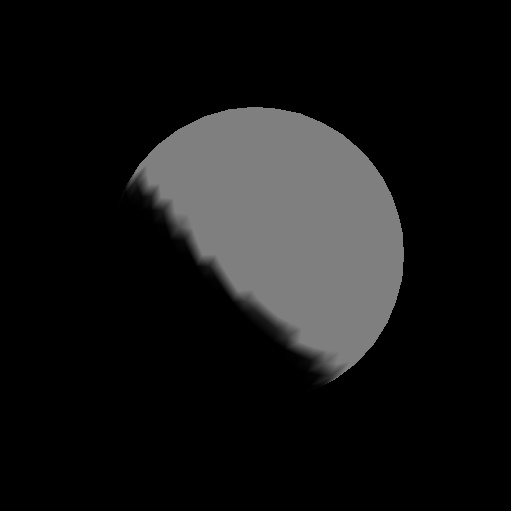
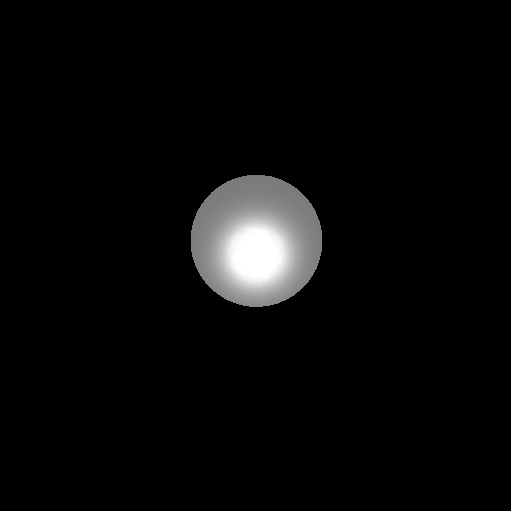
add still unfinished but little bit better lighting

Changed region(s): [[0.2348, 0.2055, 0.7926, 0.7632]]

diff --git a/RasteryzerTest/Biometrics/Rasterizer.cpp b/RasteryzerTest/Biometrics/Rasterizer.cpp
@@ -5,6 +5,11 @@ float3 InWindow(float4* ver)
 	return float3((ver->x + 1) * WIDTH * 0.5f, (ver->y + 1) * HEIGHT * 0.5f, ver->z); //+ 1) * DEPTH * 0.5f);
 }
 
+float3 InWindow(float3* ver)
+{
+	return float3((ver->x + 1) * WIDTH * 0.5f, (ver->y + 1) * HEIGHT * 0.5f, ver->z); //+ 1) * DEPTH * 0.5f);
+}
+
 void Rasterizer::rasterize()
 {
 	buffer.clearColor(0, 0, 0);
@@ -16,77 +21,56 @@ void Rasterizer::rasterize()
 		float3 ver3W = InWindow(&vertices.at(triangleIndexes.at(i)));
 		float3 ver2W = InWindow(&vertices.at(triangleIndexes.at(i + 1)));
 		float3 ver1W = InWindow(&vertices.at(triangleIndexes.at(i + 2)));
-		float3 v3 = float3(verticesMinus.at(triangleIndexes.at(i)).x, verticesMinus.at(triangleIndexes.at(i)).y, verticesMinus.at(triangleIndexes.at(i)).z);
-		float3 v2 = float3(verticesMinus.at(triangleIndexes.at(i + 1)).x, verticesMinus.at(triangleIndexes.at(i + 1)).y, verticesMinus.at(triangleIndexes.at(i + 1)).z);
-		float3 v1 = float3(verticesMinus.at(triangleIndexes.at(i + 2)).x, verticesMinus.at(triangleIndexes.at(i + 2)).y, verticesMinus.at(triangleIndexes.at(i + 2)).z);
-		//float3 v1 = -ver1W;
-		//float3 v2 = -ver2W;
-		//float3 v3 = -ver3W;
-		//float3 v1 = InWindow(&verticesMinus.at(triangleIndexes.at(i)));
-		//float3 v2 = InWindow(&verticesMinus.at(triangleIndexes.at(i + 1)));
-		//float3 v3 = InWindow(&verticesMinus.at(triangleIndexes.at(i + 2)));
-		//float3 v3 = -float3(vertices.at(triangleIndexes.at(i)).x, vertices.at(triangleIndexes.at(i)).y, vertices.at(triangleIndexes.at(i)).z);
-		//float3 v2 = -float3(vertices.at(triangleIndexes.at(i + 1)).x, vertices.at(triangleIndexes.at(i + 1)).y, vertices.at(triangleIndexes.at(i + 1)).z);
-		//float3 v1 = -float3(vertices.at(triangleIndexes.at(i + 2)).x, vertices.at(triangleIndexes.at(i + 2)).y, vertices.at(triangleIndexes.at(i + 2)).z);
+		float3 v3 = -float3(vertices.at(triangleIndexes.at(i)).x, vertices.at(triangleIndexes.at(i)).y, vertices.at(triangleIndexes.at(i)).z);
+		float3 v2 = -float3(vertices.at(triangleIndexes.at(i + 1)).x, vertices.at(triangleIndexes.at(i + 1)).y, vertices.at(triangleIndexes.at(i + 1)).z);
+		float3 v1 = -float3(vertices.at(triangleIndexes.at(i + 2)).x, vertices.at(triangleIndexes.at(i + 2)).y, vertices.at(triangleIndexes.at(i + 2)).z);
+		//float3 v3 = float3(verticesMinus.at(triangleIndexes.at(i)).x, verticesMinus.at(triangleIndexes.at(i)).y, verticesMinus.at(triangleIndexes.at(i)).z);
+		//float3 v2 = float3(verticesMinus.at(triangleIndexes.at(i + 1)).x, verticesMinus.at(triangleIndexes.at(i + 1)).y, verticesMinus.at(triangleIndexes.at(i + 1)).z);
+		//float3 v1 = float3(verticesMinus.at(triangleIndexes.at(i + 2)).x, verticesMinus.at(triangleIndexes.at(i + 2)).y, verticesMinus.at(triangleIndexes.at(i + 2)).z);
+		v3.normalize();
+		v2.normalize();
+		v1.normalize();
 		float3 n3 = float3(normals.at(triangleIndexes.at(i)).x, normals.at(triangleIndexes.at(i)).y, normals.at(triangleIndexes.at(i)).z);
 		float3 n2 = float3(normals.at(triangleIndexes.at(i + 1)).x, normals.at(triangleIndexes.at(i + 1)).y, normals.at(triangleIndexes.at(i + 1)).z);
 		float3 n1 = float3(normals.at(triangleIndexes.at(i + 2)).x, normals.at(triangleIndexes.at(i + 2)).y, normals.at(triangleIndexes.at(i + 2)).z);
-		//float3 n3 = InWindow(&normals.at(triangleIndexes.at(i)));
-		//float3 n2 = InWindow(&normals.at(triangleIndexes.at(i + 1)));
-		//float3 n1 = InWindow(&normals.at(triangleIndexes.at(i + 2)));
-
 		n3.normalize();
 		n2.normalize();
 		n1.normalize();
 
-		//float3 R1 = light.position.reflection(n1);
-		//float3 R2 = light.position.reflection(n2);
-		//float3 R3 = light.position.reflection(n3);
+		float3 posLight = float3(light->position.x, light->position.y, light->position.z);
+		posLight.normalize();
 
-		float3 posLight = float3(light->position.x,light->position.y,light->position.z);
-
-		float3 R1 = posLight.reflection(n1);
-		float3 R2 = posLight.reflection(n2);
-		float3 R3 = posLight.reflection(n3);
-		float diffuse1 = light->position.dot(n1);
-		float diffuse2 = light->position.dot(n2);
-		float diffuse3 = light->position.dot(n3);
-		//float tmp1 = R1.dot(v1);
-		//float tmp2 = R2.dot(v2);
-		//float tmp3 = R3.dot(v3);
-		float tmp1 = v1.dot(R1);
-		float tmp2 = v2.dot(R2);
-		float tmp3 = v3.dot(R3);
+		float3 R1 = n1.reflection(posLight);
+		float3 R2 = n2.reflection(posLight);
+		float3 R3 = n3.reflection(posLight);
+		//float3 R1 = posLight - (n1 * n1.dot(posLight) * 2.0f);
+		//float3 R2 = posLight - (n2 * n2.dot(posLight) * 2.0f);
+		//float3 R3 = posLight - (n3 * n3.dot(posLight) * 2.0f);
+		//float3 R1 = posLight.reflection(n1);
+		//float3 R2 = posLight.reflection(n2);
+		//float3 R3 = posLight.reflection(n3);
+		float diffuse1 = posLight.dot(n1);
+		float diffuse2 = posLight.dot(n2);
+		float diffuse3 = posLight.dot(n3);
+		float tmp1 = R1.dot(v1);
+		float tmp2 = R2.dot(v2);
+		float tmp3 = R3.dot(v3);
 		if (tmp1 < 0)
 			tmp1 = 0;
 		if (tmp2 < 0)
 			tmp2 = 0;
 		if (tmp3 < 0)
 			tmp3 = 0;
-		float specular1 = pow(tmp1, light->shininess);
-		float specular2 = pow(tmp2, light->shininess);
-		float specular3 = pow(tmp3, light->shininess);
-		//float specular1 = powf(light->shininess, tmp1);
-		//float specular2 = powf(light->shininess, tmp2);
-		//float specular3 = powf(light->shininess, tmp3);
-		//float3 col1 = float3(0.5f, 0.5f, 0.5f);
-		//float3 col2 = float3(0.5f, 0.5f, 0.5f);
-		//float3 col3 = float3(0.5f, 0.5f, 0.5f);
+		float specular1 = 0;
+		float specular2 = 0;
+		float specular3 = 0;
+
+		specular1 = pow(tmp1, light->shininess);
+		specular2 = pow(tmp2, light->shininess);
+		specular3 = pow(tmp3, light->shininess);
 		float3 col1; //= float3(0.5f, 0.0f, 0.0f);
 		float3 col2; //= float3(0.0f, 0.5f, 0.0f);
 		float3 col3; //= float3(0.0f, 0.0f, 0.5f);
-		//if (diffuse1 > 1)
-		//	diffuse1 = 1;
-		//if (diffuse2 > 1)
-		//	diffuse2 = 1;
-		//if (diffuse3 > 1)
-		//	diffuse3 = 1;
-		//if (diffuse1 < 0)
-		//	diffuse1 = 0;
-		//if (diffuse2 < 0)
-		//	diffuse2 = 0;
-		//if (diffuse3 < 0)
-		//	diffuse3 = 0;
 		if (specular1 > 1)
 			specular1 = 1;
 		if (specular2 > 1)
@@ -99,24 +83,25 @@ void Rasterizer::rasterize()
 			specular2 = 0;
 		if (specular3 < 0)
 			specular3 = 0;
-		//col1 = light.ambient + light.diffuse * diffuse1 + light.specular * specular1;
-		//col2 = light.ambient + light.diffuse * diffuse2 + light.specular * specular2;
-		//col3 = light.ambient + light.diffuse * diffuse3 + light.specular * specular3;
-		//col1 = light.diffuse * diffuse1 + light.specular * specular1;
-		//col2 = light.diffuse * diffuse2 + light.specular * specular2;
-		//col3 = light.diffuse * diffuse3 + light.specular * specular3;
-		//col1 = light.ambient + light.diffuse * diffuse1;
-		//col2 = light.ambient + light.diffuse * diffuse2;
-		//col3 = light.ambient + light.diffuse * diffuse3;
-		col1 = light->specular * specular1;
-		col2 = light->specular * specular2;
-		col3 = light->specular * specular3;
+		col1 = light->ambient + light->diffuse * diffuse1 + light->specular * specular1;
+		col2 = light->ambient + light->diffuse * diffuse2 + light->specular * specular2;
+		col3 = light->ambient + light->diffuse * diffuse3 + light->specular * specular3;
+		//col1 = light->diffuse * diffuse1 + light->specular * specular1;
+		//col2 = light->diffuse * diffuse2 + light->specular * specular2;
+		//col3 = light->diffuse * diffuse3 + light->specular * specular3;
+		//col1 = light->ambient + light->diffuse * diffuse1;
+		//col2 = light->ambient + light->diffuse * diffuse2;
+		//col3 = light->ambient + light->diffuse * diffuse3;
+		//col1 = light->specular * specular1;
+		//col2 = light->specular * specular2;
+		//col3 = light->specular * specular3;
 		//col1 = light->diffuse * diffuse1;
 		//col2 = light->diffuse * diffuse2;
 		//col3 = light->diffuse * diffuse3;
 		col1.ZeroOne();
 		col2.ZeroOne();
 		col3.ZeroOne();
+
 		buffer.setBordersAndCons(&ver3W, &ver2W, &ver1W);
 		buffer.culling();
 		triangulate(&ver3W, &ver2W, &ver1W, &col3, &col2, &col1);
@@ -215,19 +200,19 @@ void Rasterizer::applayMatrices()
 			w = normals.at(j).w;
 			normals.at(j) = float4(normals.at(j).x / w, normals.at(j).y / w, normals.at(j).z / w, w);
 
-			verticesMinus.at(j) = -objects.at(i).orginalVertices.at(j - start); 
+			verticesMinus.at(j) = -(objects.at(i).orginalVertices.at(j - start)); 
 			verticesMinus.at(j) = objects.at(i).verProc.obj2world * verticesMinus.at(j);
 			verticesMinus.at(j) = objects.at(i).verProc.world2view * verticesMinus.at(j);
 			verticesMinus.at(j) = objects.at(i).verProc.view2proj * verticesMinus.at(j);
 			w = verticesMinus.at(j).w;
 			verticesMinus.at(j) = float4(verticesMinus.at(j).x / w, verticesMinus.at(j).y / w, verticesMinus.at(j).z / w, w);
 		}
-		//light->position = float3(1, 1, 1);
+		light->position = float3(0, 1, 1);
 		//light->position = objects.at(0).verProc.obj2world * light->position;
-		//light->position = objects.at(0).verProc.world2view * light->position;
-		//light->position = objects.at(0).verProc.view2proj * light->position;
-		//float w = light->position.w;
-		//light->position = float4(light->position.x / w, light->position.y / w, light->position.z / w, w);
+		light->position = objects.at(0).verProc.world2view * light->position;
+		light->position = objects.at(0).verProc.view2proj * light->position;
+		float w = light->position.w;
+		light->position = float4(light->position.x / w, light->position.y / w, light->position.z / w, w);
 	}
 }
 

diff --git a/RasteryzerTest/Biometrics/main.cpp b/RasteryzerTest/Biometrics/main.cpp
@@ -11,6 +11,9 @@
 
 int main()
 {
+	float3 test1 = float3(0, 0, 1);
+	float3 test2 = float3(0, 0.5, 0);
+	float test3 = test1.dot(test2);
 	// Create black empty images
 	cv::Mat image = cv::Mat::zeros(HEIGHT - 1, WIDTH - 1, CV_8UC3);
 	std::string winName = "Image";
@@ -21,21 +24,22 @@ int main()
 	std::vector<Object> objVector;
 	objVector.push_back(obj);
 
-	DirectionalLight light = DirectionalLight(float3(1, 1, 1), float3(0.1, 0.1, 0.1), float3(0.5, 0.5, 0.5), float3(0.5, 0.5, 0.5), 0.00000001f);
+	DirectionalLight light = DirectionalLight(float3(0, 1, 0), float3(0.0, 0.0, 0.0), float3(0.5, 0.5, 0.5), float3(1.0, 1.0, 1.0), 40.0f);
 
 	Rasterizer rasterizer(&objVector, &light);
 
-	float3 move = float3(0.0f, 0.0f, 0.f);
+	float3 move = float3(0.0f, 0.8f, 4.0f);
 	float3 axis = float3(0.f, 0.f, 0.f);
 	float angle = 0.f;
 	float3 scale = float3(1.0f, 1.0f, 1.0f);
-	rasterizer.objects.at(0).verProc.multByTranslation(move);
 	rasterizer.objects.at(0).verProc.multByRotation(angle, axis);
+	rasterizer.objects.at(0).verProc.multByTranslation(move);
+
 	rasterizer.objects.at(0).verProc.multByScale(scale);
 	rasterizer.objects.at(0).verProc.obj2world.transposit();
 
-	float3 eye = float3(0.0f, 0.0f, -2.0f);
-	float3 center = eye + float3(0.0f, 0.0f, 1.0f);
+	float3 eye = float3(0.0f, 1.0f, 0.0f);
+	float3 center = eye + float3(0.0f, 0.0f, -1.0f);
 	float3 up = float3(0, 1, 0);
 	rasterizer.objects.at(0).verProc.setLookat(eye, center, up);
 	rasterizer.objects.at(0).verProc.world2view.transposit();
@@ -70,11 +74,11 @@ int main()
 
 		rasterizer.objects.at(0).verProc.clear();
 		//move = float3(0.0f, 0.8f, 2.f);
-		axis = float3(1.f, 1.f, 1.f);
+		axis = float3(0.f, 1.f, 0.f);
 		angle += 90.0f * dTime;
 		//scale = float3(1.f, 1.f, 1.f);
-		rasterizer.objects.at(0).verProc.multByTranslation(move);
 		rasterizer.objects.at(0).verProc.multByRotation(angle, axis);
+		rasterizer.objects.at(0).verProc.multByTranslation(move);
 		rasterizer.objects.at(0).verProc.multByScale(scale);
 		rasterizer.objects.at(0).verProc.obj2world.transposit();
 
@@ -103,7 +107,7 @@ int main()
 		imshow(winName, image);
 		//cv::imwrite("image"+std::to_string(iterator) + ".jpg", image);
 		//iterator++;
-		light.shininess += 0.1f;
+		//light.shininess += 0.1f;
 		cv::waitKey(1);
 	}
 

diff --git a/RasteryzerTest/Biometrics/ObjParser.cpp b/RasteryzerTest/Biometrics/ObjParser.cpp
@@ -8,6 +8,7 @@ void ObjParser::readMeshFromFile(const std::string& filename, Object* object)
 {
 	std::ifstream input;
 	std::regex vertex("(v )([-]?\\d*\\.\\d*)\\s([-]?\\d*\\.\\d*)\\s([-]?\\d*\\.\\d*)");
+	std::regex normal("(vn )([-]?\\d*\\.\\d*)\\s([-]?\\d*\\.\\d*)\\s([-]?\\d*\\.\\d*)");
 	std::regex face("(f )(\\d*)\/{2}(\\d*)\\s(\\d*)\/{2}(\\d*)\\s(\\d*)\/{2}(\\d*)");
 	try
 	{
@@ -22,6 +23,11 @@ void ObjParser::readMeshFromFile(const std::string& filename, Object* object)
 					std::stof(result[2].str().c_str()),
 					std::stof(result[3].str().c_str()),
 					std::stof(result[4].str().c_str())));
+			//if (std::regex_search(line, result, normal))
+			//	object->normals.push_back(float3(
+			//		std::stof(result[2].str().c_str()),
+			//		std::stof(result[3].str().c_str()),
+			//		std::stof(result[4].str().c_str())));
 			if (std::regex_search(line, result, face))
 			{
 				//object->triangleIndexes.push_back((std::stoi(result[2]) - 1));

diff --git a/RasteryzerTest/Biometrics/Structures.h b/RasteryzerTest/Biometrics/Structures.h
@@ -60,7 +60,7 @@ struct float3
 
 	float dot(const float3& other)
 	{
-		return x * other.x + y * other.y + z * other.z;
+		return (x * other.x) + (y * other.y) + (z * other.z);
 	}
 
 	float3 cross(const float3& other)
@@ -84,8 +84,9 @@ struct float3
 
 	float3 reflection(float3 normal)
 	{
-		return *this - (normal * ( 2 * this->dot(normal)));
+		//return *this - (normal * ( 2 * this->dot(normal)));
 		//return (normal * (2 * this->dot(normal))) - *this;
+		return *this - (normal * 2 * (this->dot(normal)/normal.dot(normal)));
 		//normal of course must be normalized
 	}
 
@@ -138,6 +139,7 @@ struct float4
 	float4(float x, float y, float z, float w) : x(x), y(y), z(z), w(w) {}
 	float4(float x, float y, float z) : x(x), y(y), z(z), w(1) {}
 	float4(float3 ver): x(ver.x), y(ver.y), z(ver.z), w(1) {}
+	float4(float3 ver, float w) : x(ver.x), y(ver.y), z(ver.z), w(w) {}
 
 	float dot(const float4& other)
 	{

diff --git a/RasteryzerTest/Biometrics/Object.cpp b/RasteryzerTest/Biometrics/Object.cpp
@@ -1,7 +1,7 @@
 #include "Object.h"
 
 void Object::calculateNormals()
-{
+	{
 	float3 n;
 	for (int i = 0; i < orginalVertices.size(); ++i)
 		normals.push_back(float3());
@@ -13,8 +13,13 @@ void Object::calculateNormals()
 		normals.at(triangleIndexes.at(i + 1)) = n + normals.at(triangleIndexes.at(i + 1));
 		normals.at(triangleIndexes.at(i + 2)) = n + normals.at(triangleIndexes.at(i + 2));
 	}
+
 	for (int i = 0; i < normals.size(); ++i)
+	{
+		normals.at(i) = orginalVertices.at(i);
 		normals.at(i).normalize();
+	}
+
 }
 
 Object::Object()
